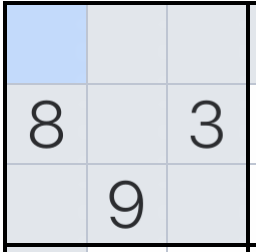
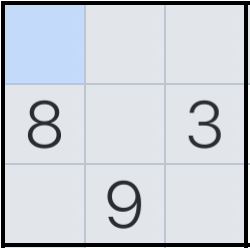
changed layout/alignment

diff --git a/src/index.html b/src/index.html
@@ -52,23 +52,15 @@
           numbers as clues to find which digits are missing in each row.
         </p>
         <br />
-        <div class="images">
+        <div class="images row">
           <img
             src="./images/row-unsolved.PNG"
             alt="Unsolved Row"
-            style="width: 500px; height: 50px"
             class="before"
           />
-          <img
-            src="./images/row-solved.PNG"
-            alt="Solved Row"
-            style="width: 500px; height: 50px"
-            class="after"
-          />
+          <img src="./images/row-solved.PNG" alt="Solved Row" class="after" />
         </div>
-        <h3 style="text-align: center; margin-top: 3em">
-          Click to see the solution!
-        </h3>
+        <h3 class="caption">Click to see a solved row!</h3>
       </div>
       <!-- Second Slide -->
       <div id="slide2">
@@ -84,20 +76,19 @@
           digits are missing in each column and their position.
         </p>
         <br />
-        <div class="images">
+        <div class="images column">
           <img
             src="./images/column-unsolved.PNG"
             alt="Unsolved Column"
-            style="width: 50px; height: 400px"
             class="before"
           />
           <img
             src="./images/column-solved.PNG"
             alt="Solved Column"
-            style="width: 50px; height: 400px"
             class="after"
           />
         </div>
+        <h3 class="caption column-solved">Click to see a solved column!</h3>
       </div>
       <!-- Third Slide -->
       <div id="slide3">
@@ -110,20 +101,15 @@
           restriction to the numbers’ positioning.
         </p>
         <br />
-        <div class="images">
+        <div class="images nonet">
           <img
             src="./images/nonet-unsolved.PNG"
             alt="Unsolved Nonet"
-            style="width: 300px; height: 300px"
             class="before"
           />
-          <img
-            src="./images/nonet.PNG"
-            alt="Solved Nonet"
-            style="width: 300px; height: 300px"
-            class="after"
-          />
+          <img src="./images/nonet.PNG" alt="Solved Nonet" class="after" />
         </div>
+        <h3 class="caption nonet-solved">Click to see a solved nonet!</h3>
       </div>
       <!-- Fourth Slide -->
       <div id="slide4">
@@ -140,13 +126,7 @@
         <br />
         <div class="container">
           <div class="video">
-            <video
-              id="animation"
-              style="width: 640px; height: 360px"
-              controls
-              autoplay
-              loop
-            >
+            <video class="animation" controls autoplay loop>
               <source src="./images/Nonet-Animation.mp4" type="video/mp4" />
             </video>
           </div>
@@ -165,24 +145,26 @@
         </p>
         <br />
         <!-- Flip Card -->
-        <div class="flip-card">
-          <div class="flip-card-inner">
-            <div class="flip-card-front">
-              <img
-                src="./images/unsolved.png"
-                alt="Unsolved Puzzle"
-                style="width: 300px; height: 300px"
-              />
+        <div class="container">
+          <div class="flip-card">
+            <div class="flip-card-inner">
+              <div class="flip-card-front">
+                <img
+                  src="./images/unsolved.png"
+                  alt="Unsolved Puzzle"
+                  style="width: 100%; max-width: 300px; height: 300px"
+                />
+              </div>
+              <div class="flip-card-back">
+                <img
+                  src="./images/solved.png"
+                  alt="Solved Puzzle"
+                  style="width: 100%; max-width: 300px; height: 300px"
+                />
+              </div>
             </div>
-            <div class="flip-card-back">
-              <img
-                src="./images/solved.png"
-                alt="Solved Puzzle"
-                style="width: 300px; height: 300px"
-              />
-            </div>
+            <h3>Hover over to see the solution!</h3>
           </div>
-          <h3>Hover over to see the solution!</h3>
         </div>
       </div>
       <!-- Sixth Slide -->
@@ -195,14 +177,13 @@
           grid.
         </p>
         <br />
-        <div class="images">
-          <img
-            src="./images/guessing.PNG"
-            alt="Wrong Guess"
-            style="width: 500px; height: 50px"
-            class="before"
-          />
+        <div class="container guess">
+          <img src="./images/guessing.PNG" alt="Wrong Guess" class="before" />
         </div>
+        <h3 class="caption wrong">
+          Here a wrong guess is shown in red. The number '4' cannot be used
+          twice in one row.
+        </h3>
       </div>
       <!-- Seventh Slide -->
       <div id="slide7">
@@ -216,24 +197,26 @@
           to complete the grid.
         </p>
         <br />
-        <div class="flip-card">
-          <div class="flip-card-inner">
-            <div class="flip-card-front">
-              <img
-                src="./images/notes-unsolved.png"
-                alt="Hidden Single"
-                style="width: 300px; height: 300px"
-              />
+        <div class="container">
+          <div class="flip-card">
+            <div class="flip-card-inner">
+              <div class="flip-card-front">
+                <img
+                  src="./images/notes-unsolved.png"
+                  alt="Hidden Single"
+                  style="width: 100%; max-width: 300px; height: 300px"
+                />
+              </div>
+              <div class="flip-card-back">
+                <img
+                  src="./images/notes-solved.png"
+                  alt="Hidden Single Reveals '1'"
+                  style="width: 100%; max-width: 300px; height: 300px"
+                />
+              </div>
             </div>
-            <div class="flip-card-back">
-              <img
-                src="./images/notes-solved.png"
-                alt="Hidden Single Reveals '1'"
-                style="width: 300px; height: 300px"
-              />
-            </div>
+            <h3>Hover over to see a hidden single!</h3>
           </div>
-          <h3>Hover over to see a hidden single!</h3>
         </div>
         <br />
         <!-- Sources Modal -->

diff --git a/src/css/main.css b/src/css/main.css
@@ -32,22 +32,24 @@ a {
   display: flex;
   justify-content: center;
 }
+.animation {
+  margin-top: -5px;
+  /* margin-left: -100px; */
+}
 .video {
-  width: 349px;
   overflow: hidden;
   display: block;
-  height: 350px;
-}
-#animation {
-  margin-top: -5px;
-  margin-left: -145px;
+  width: 100%;
+  max-width: 500px;
+  max-height: 500px;
 }
 
 /* Sources Modal */
 #sources {
   position: absolute;
-  bottom: 0;
+  /* bottom: 0; */
   left: 50%;
+  margin-top: 5em;
   -ms-transform: translate(-50%, -50%);
   transform: translate(-50%, -50%);
   background-color: #5daaf8;
@@ -166,6 +168,10 @@ ul {
   width: 50%;
 }
 .images img {
+  width: 100%;
+  inset: 0;
+  margin: 0;
+  height: auto;
   position: absolute;
   z-index: 1;
 }
@@ -179,6 +185,34 @@ ul {
 .images.active .after {
   opacity: 1;
   z-index: 1;
+}
+.caption {
+  text-align: center;
+  margin-top: 1em;
+}
+.row {
+  aspect-ratio: 10 / 1;
+}
+.column {
+  max-width: 40px;
+  max-height: 300px;
+  display: block;
+}
+.nonet {
+  max-width: 300px;
+  max-height: 300px;
+}
+.guess {
+  max-height: 75px;
+}
+.wrong {
+  margin-top: 4.5em;
+}
+.column-solved {
+  margin-top: 18em;
+}
+.nonet-solved {
+  margin-top: 16em;
 }
 
 /* Flip Card */
@@ -229,6 +263,19 @@ ul {
   }
   h3 {
     font-size: 1.25em;
+  }
+  .guess {
+    max-height: 15px;
+    max-width: 100%;
+  }
+  .wrong {
+    margin-top: 2em;
+  }
+  .column-solved {
+    margin-top: 16em;
+  }
+  .nonet-solved {
+    margin-top: 10em;
   }
 }
 

diff --git a/src/js/main.js b/src/js/main.js
@@ -46,8 +46,10 @@ previousButton.addEventListener("click", previousSlide);
 nextButton.addEventListener("click", nextSlide);
 
 // Toggle Image
-document.querySelector(".images").addEventListener("click", function () {
-  this.classList.toggle("active");
+document.querySelectorAll(".images").forEach((i) => {
+  i.addEventListener("click", function () {
+    this.classList.toggle("active");
+  });
 });
 
 // Sources Modal

diff --git a/src/css/reset.css b/src/css/reset.css
@@ -51,6 +51,7 @@ a:not([class]) {
 /* Make images easier to work with */
 img {
   max-width: 100%;
+  max-width: 100%;
   display: block;
 }
 
